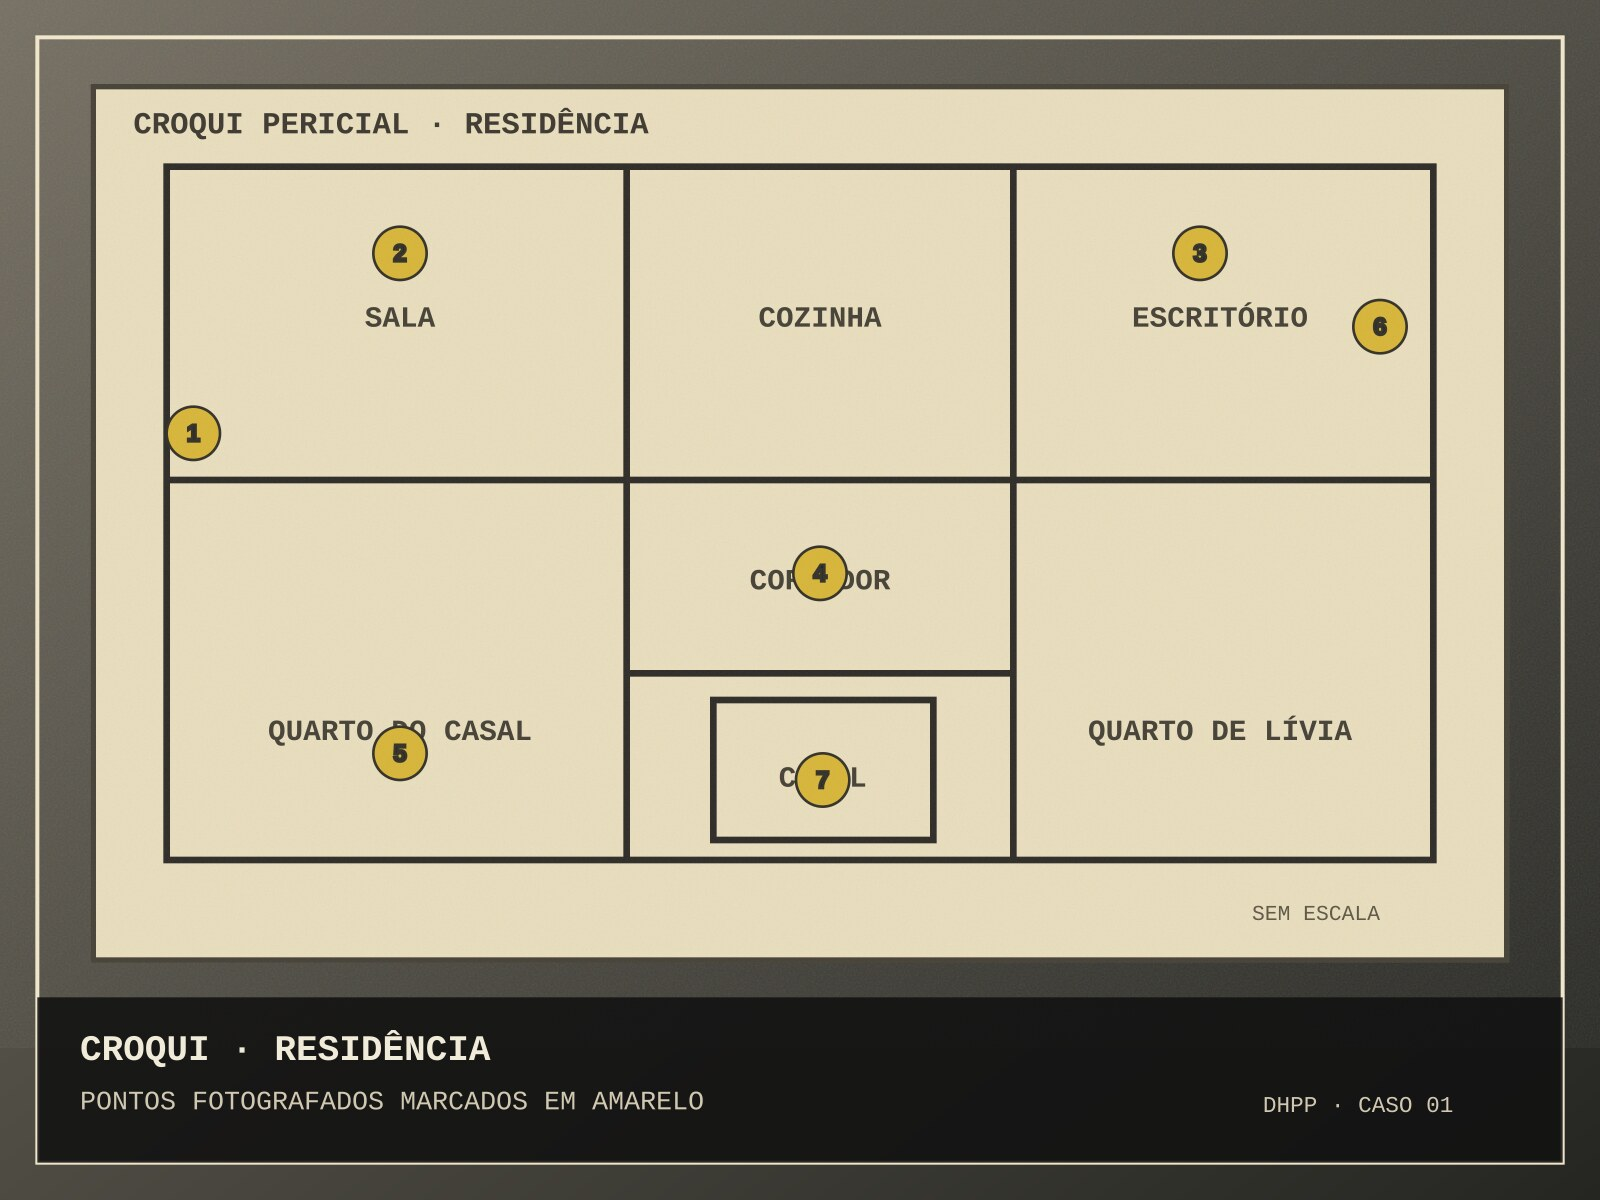
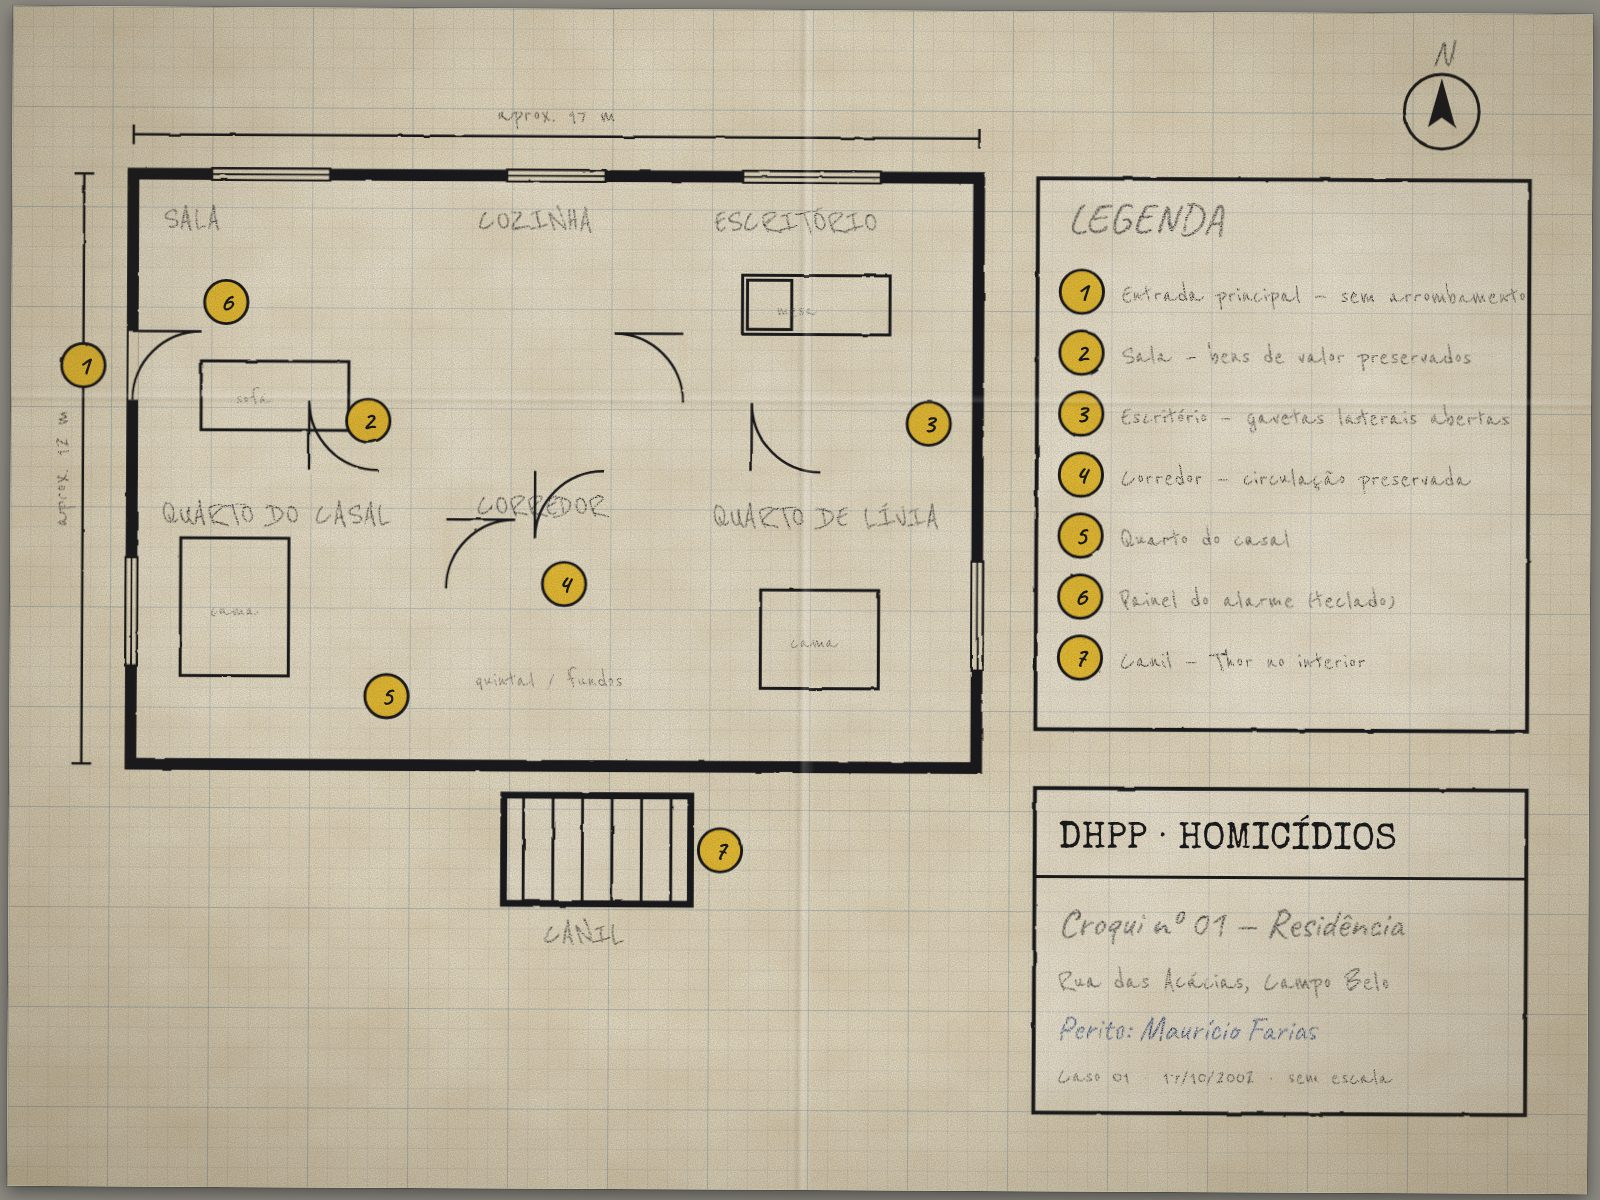
Evidências do Caso 01 (novas): 9 documentos e 2 croquis realistas
Claude-Session: https://claude.ai/code/session_01Ca2uey9G1wANVTd1hU6UsR

diff --git a/creative-requests/inbox/2026-10-02-equipe-material-novo-v2-realismo.md b/creative-requests/inbox/2026-10-02-equipe-material-novo-v2-realismo.md
@@ -73,3 +73,8 @@ Preenchido pelo ChatGPT ao concluir.
 - status:
 - assets criados:
 - observações:
+
+---
+## Atualização (Claude)
+Os 9 documentos e os 2 croquis foram refeitos pelo Claude (HTML/SVG renderizado, em `.jpg`) em `public/evidence/case01/new/`.
+**Restam apenas as 4 fotos**: `fechadura_porta`, `trava_canil`, `escritorio_comparativo`, `foto_fachada_lan` (as atuais são simples demais).
